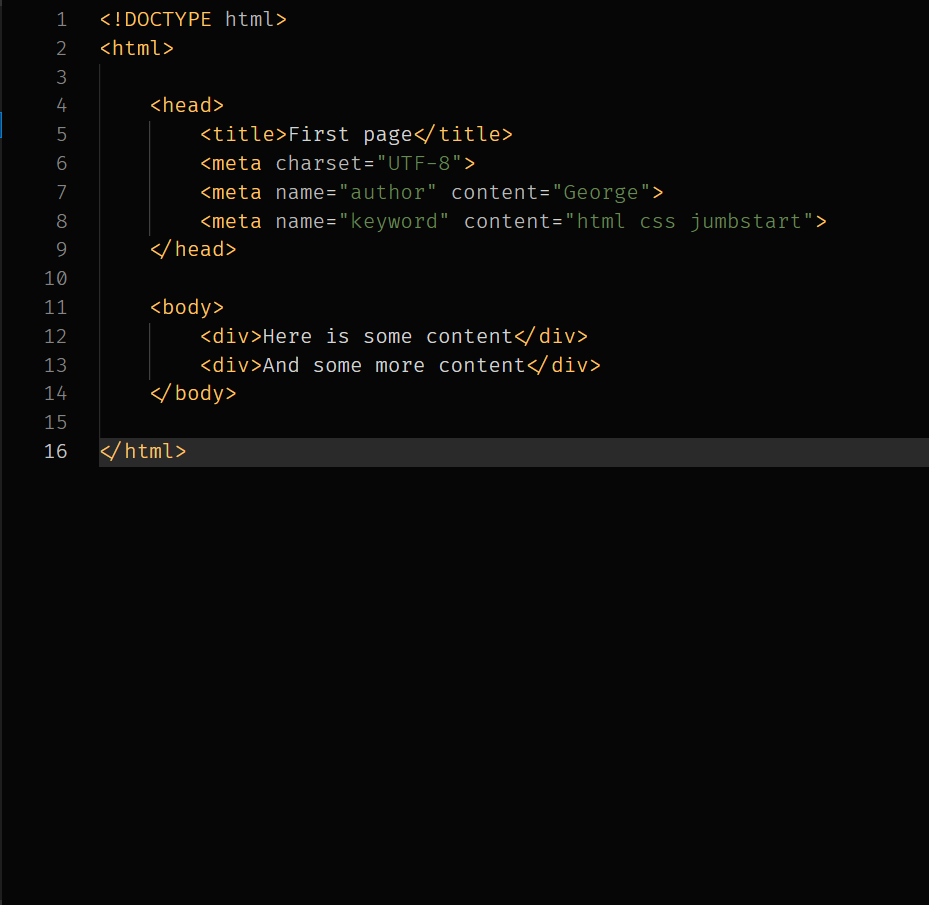
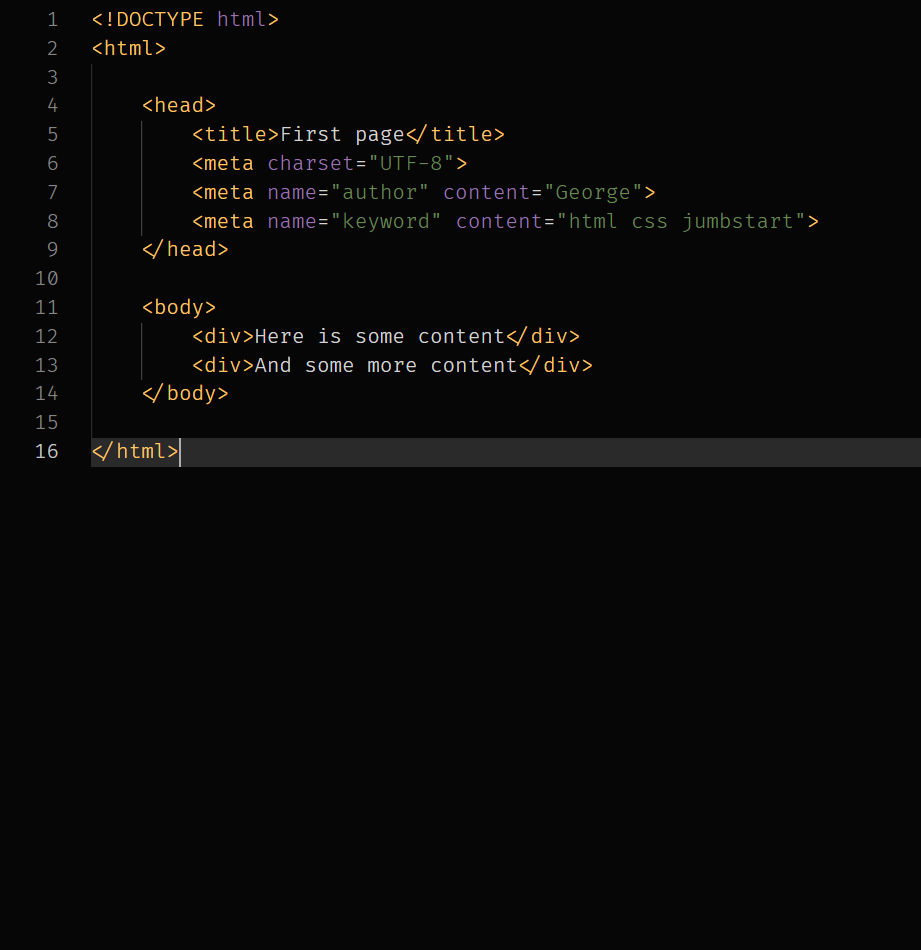
Update font colors
- Change html attribute name color.
- Change python support functions color.
- Change css property value color.
- Change javascript punctuation separator color.

diff --git a/CHANGELOG.md b/CHANGELOG.md
@@ -4,41 +4,50 @@
 
 ### Added
 
-- Added code from base repo.
+- Add code from base repo.
 
 ### Changed
 
-- Updated logo
-- Updated preview image.
+- Update logo
+- Update preview image.
 
 ## [1.0.1] - 2022-06-22
 
 ### Changed
 
-- Updated background color.
-- Updated font colors.
+- Update background color.
+- Update font colors.
 
 ## [1.0.2] - 2022-06-22
 
 ### Changed
 
-- Updated font colors.
+- Update font colors.
 
 ## [1.0.3] - 2022-06-22
 
 ### Changed
 
-- Updated font colors.
+- Update font colors.
 
 ## [1.0.4] - 2022-06-22
 
 ### Changed
 
-- Updated font colors.
-- Updated preview image.
+- Update font colors.
+- Update preview image.
 
 ## [1.0.5] - 2022-06-22
 
 ### Added
 
-- Added change log.
+- Add change log.
+
+## [1.0.6] - 2022-07-02
+
+### Changed
+
+- Change html attribute name color.
+- Change python support functions color.
+- Change css property value color.
+- Change javascript punctuation separator color.
